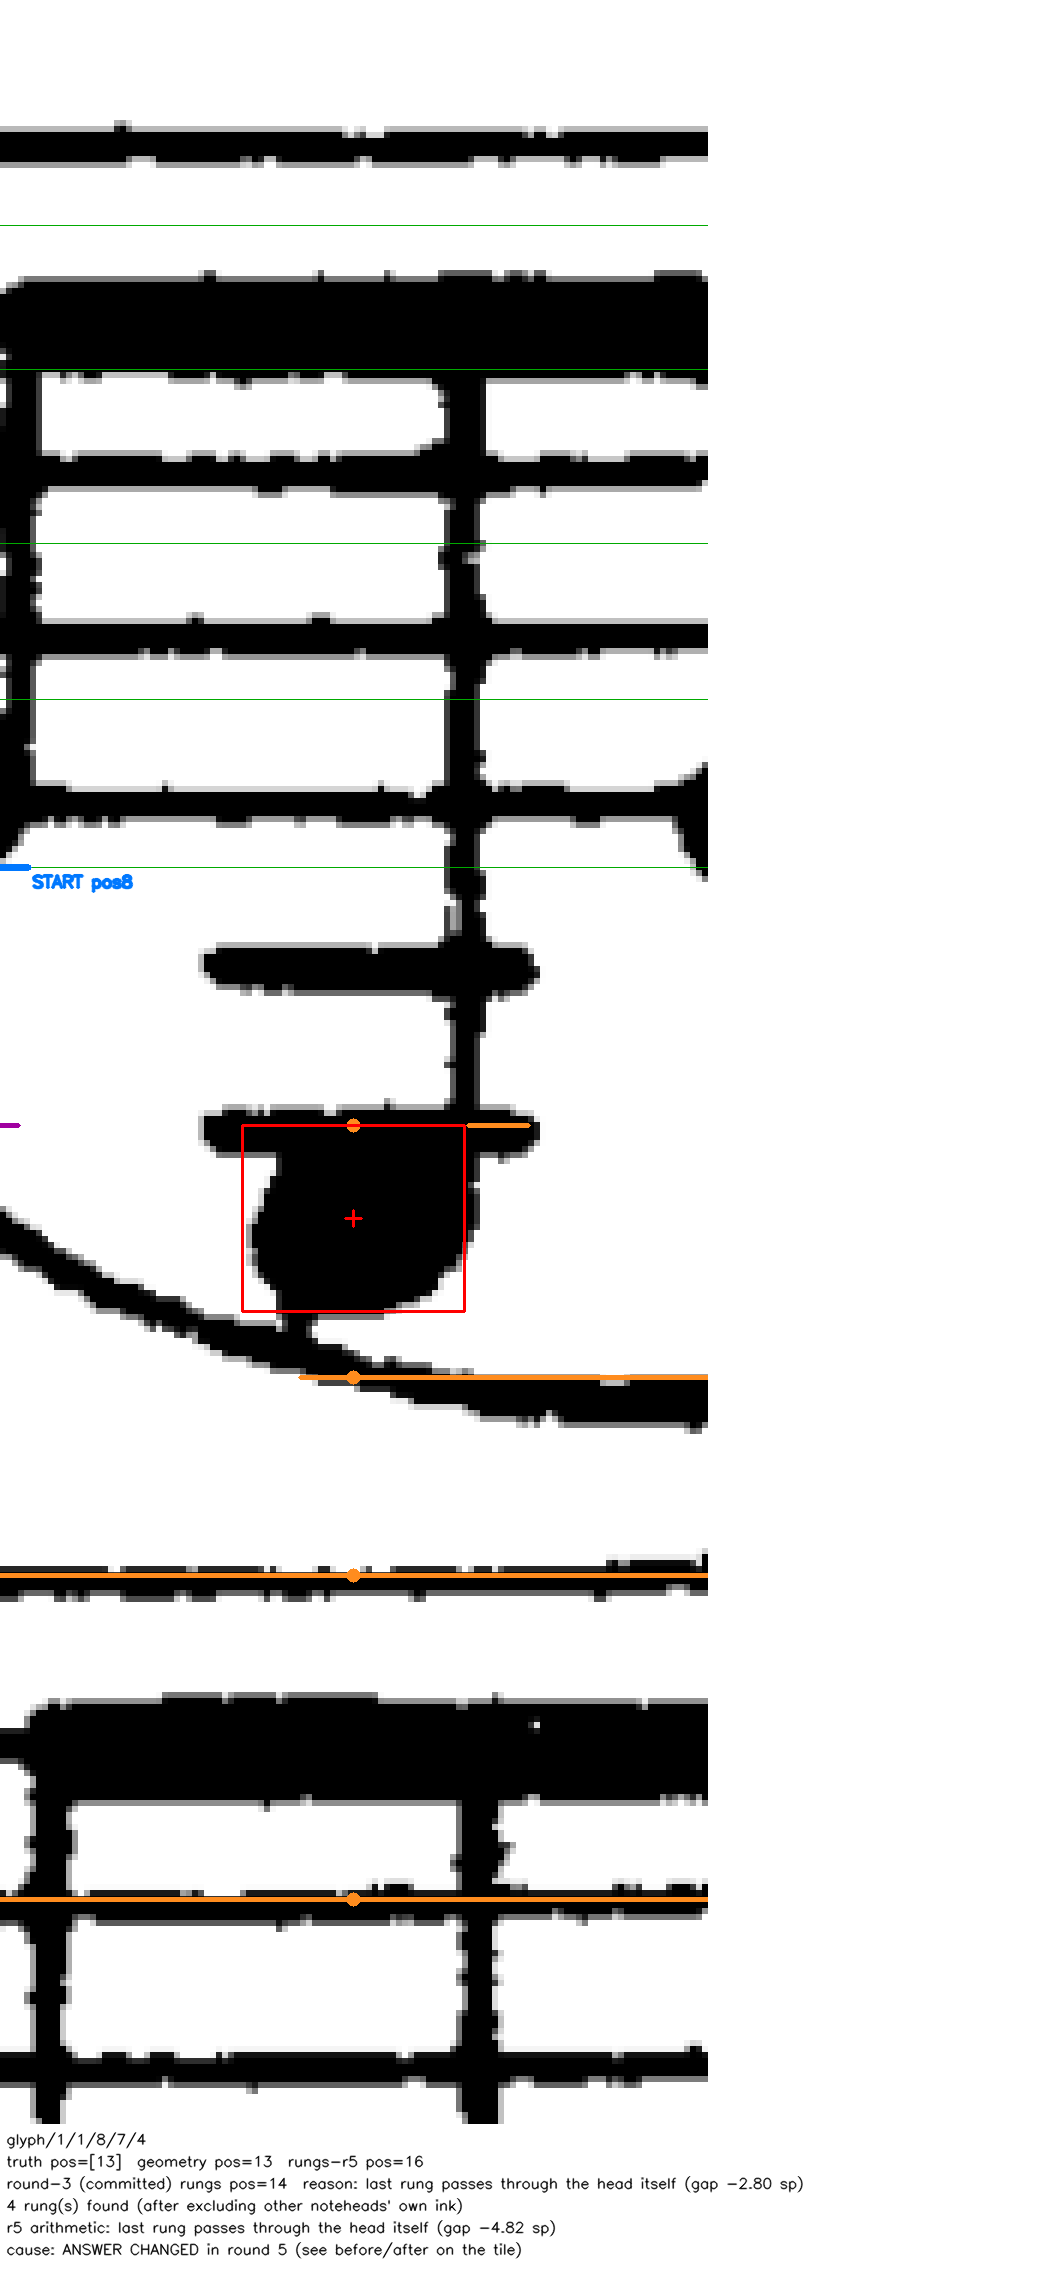
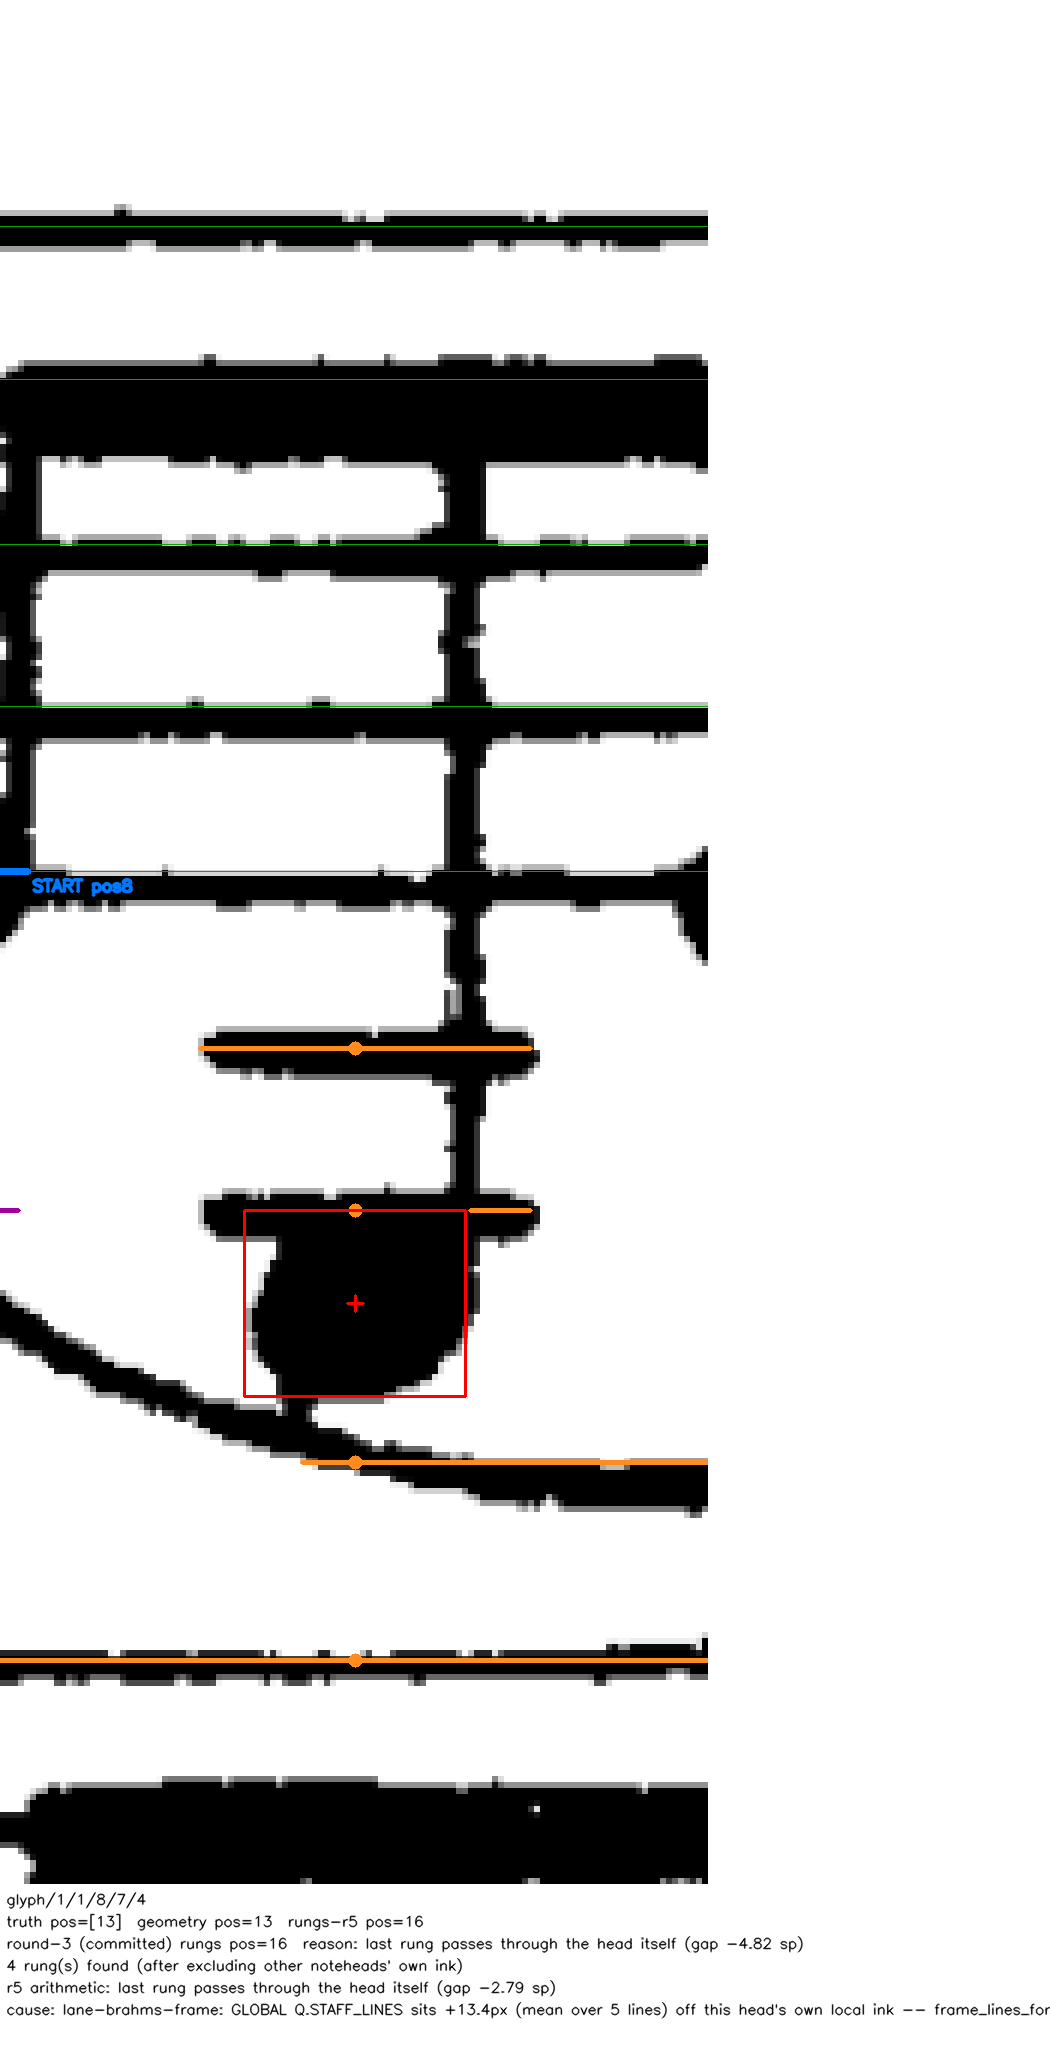
lane-brahms-frame: fix global-vs-local staff lines in the rung reader
The "unexplained" Brahms count-page staff-line MISSes flagged in rounds
2/3/5 were not a render-frame bug -- detect_staves(render_page(...))
reproduces the record's own stored staff_lines to the integer pixel on
both docs' count pages (same finding as frame.py's Litolff check).

The real cause: Q.STAFF_LINES is one GLOBAL fit for the whole staff, and
score_truth_set_rungs.py / review_crops5.py fed it into
ledger_grid.measure_ledger_rungs as if it were the LOCAL position at the
far head's own x. On Brahms page 1 (staff_skew 4.5-5.5 deg, real wander)
that global fit sits ~10-13 page px off the ink at a far head's x; on
Litolff p3 (~0.25 deg) it doesn't. truth_set_2_44c.load_doc's own
geometry scoring already re-measures locally via local_staff_lines
(flanking-band darkest-row search) -- the rung reader never called it.

Added score_truth_set_rungs.frame_lines_for_head(), reusing
local_staff_lines at the head's own x with a fallback to the unchanged
global read; score_doc and review_crops5.py's crop drawer both use it
now. tools/omr/annotate/ledger_grid.py (owned by another lane this
session) is untouched.

Redrew the 4 flagged crops (redraw_brahms_frame_fix.py, not the whole
round-5 sheet -- see FINDINGS for why). 3 of 4 go from wrong/abstain to
right; the 4th has a separate, unfixed ledger_grid reading fault.
Full Brahms population (113 far heads, fresh --full re-gather): rungs
67/45/1 -> 71/42/0 (right/wrong/abstain). Litolff control: 50/22/27 ->
[…]

Changed region(s): [[0.0, 0.0308, 0.7619, 0.9853]]

diff --git a/benchmarks/omr-local-staff-2026-09/redraw_brahms_frame_fix.py b/benchmarks/omr-local-staff-2026-09/redraw_brahms_frame_fix.py
@@ -1,0 +1,104 @@
+#!/usr/bin/env python3
+"""lane-brahms-frame (2026-10-01) -- redraw the 4 Brahms review crops the
+manager flagged (`out/print/ledgers/r5/brahms1-breitkopf-glyph-1-1-8-{4-4,
+5-0,6-0,7-4}.png`) with the CORRECTED frame (`score_truth_set_rungs.
+frame_lines_for_head`, same module `review_crops5.py` now calls), so the
+drawn green staff lines sit ON the ink instead of ~10-13 page px below it.
+
+Does NOT re-run `review_crops5.main()` -- that script's own population
+(every truth-set head still wrong/abstaining/changed) is now 113 heads on
+this fresh re-gather (the 11-head population in FINDINGS' round-5 table
+came from a since-regenerated, no-longer-reproducible small record -- see
+FINDINGS entry for this lane), and redrawing the WHOLE round-5 sheet is
+out of scope for a frame fix. This redraws exactly the 4 flagged crops,
+reusing `review_crops5.render_crop` UNCHANGED (same style, same pixel-row
+check), with BEFORE/AFTER meaning the FRAME fix itself (global
+`Q.STAFF_LINES` vs `frame_lines_for_head`'s local re-measurement) rather
+than round 5's own ledger_grid-vs-round-3 comparison.
+"""
+from __future__ import annotations
+
+import sys
+from pathlib import Path
+
+REPO = Path(__file__).resolve().parents[2]
+sys.path.insert(0, str(REPO))
+sys.path.insert(0, str(Path(__file__).resolve().parent))
+
+import score_truth_set_rungs as score  # noqa: E402
+import review_crops5 as rc  # noqa: E402
+import truth_set_2_44c as ts  # noqa: E402
+from tools.omr.staged.record import Q  # noqa: E402
+
+TARGET_SUBJECTS = [
+    "glyph/1/1/8/4/4",
+    "glyph/1/1/8/5/0",
+    "glyph/1/1/8/6/0",
+    "glyph/1/1/8/7/4",
+]
+
+OUT_DIR = REPO / "out" / "print" / "ledgers" / "r5"
+
+
+def main() -> int:
+    doc_id = "brahms1-breitkopf"
+    loaded = ts.load_doc(doc_id)
+    rec = loaded["rec"]
+    rows_by_sub = {row["subject"]: row
+                  for row in score._far_head_rows(doc_id, loaded)}
+    pages = score.PageCache(loaded["cfg"])
+    boxes_by_page = score._notehead_boxes_by_page(rec)
+
+    for sub in TARGET_SUBJECTS:
+        row = rows_by_sub.get(sub)
+        if row is None:
+            print(f"{sub}: NOT in the far-head population on this record -- skipped")
+            continue
+        staff_key = row["staff_key"]
+        clef_v = rec.value(Q.CLEF, staff_key)
+        truth_pos = sorted(score.truth_positions(row["truth_pitches"], str(clef_v))) \
+            if clef_v is not None else []
+        box = row["page_box"]
+        line_rows = rec.obs(Q.STAFF_LINES, staff_key)
+        global_lines = [float(v) for v in line_rows[-1]["value"]]
+        gray = pages.get(row["page"])
+        local_lines = score.frame_lines_for_head(gray, global_lines, box)
+        page_boxes = boxes_by_page.get(row["page"], [])
+        others = [b for (s, b) in page_boxes if s != sub]
+
+        geom_pos = int(round(row["raw_pos"]))
+
+        before_pos, before_reason = score.reader_absolute_position(
+            gray, global_lines, box, sub, page_boxes
+        )
+        after_pos, after_reason = score.reader_absolute_position(
+            gray, local_lines, box, sub, page_boxes
+        )
+
+        offsets = [g - l for g, l in zip(sorted(global_lines), sorted(local_lines))]
+        cause = (
+            f"lane-brahms-frame: GLOBAL Q.STAFF_LINES sits "
+            f"{sum(offsets) / len(offsets):+.1f}px (mean over 5 lines) off "
+            f"this head's own local ink -- frame_lines_for_head re-measures "
+            f"at the head's x (ts.local_staff_lines), matching the ink"
+        )
+
+        safe = f"{doc_id}-{sub.replace('/', '-')}.png"
+        out_path = OUT_DIR / safe
+        pix_report = rc.render_crop(
+            gray, box, local_lines, sub, out_path,
+            truth_pos, geom_pos, after_pos, after_reason,
+            cause, others, before_pos, before_reason,
+        )
+        print(f"{sub} -> {out_path}")
+        print(f"  global_lines={[round(v, 1) for v in sorted(global_lines)]}")
+        print(f"  local_lines ={[round(v, 1) for v in sorted(local_lines)]}")
+        print(f"  before(global)={before_pos} ({before_reason})  "
+             f"after(local)={after_pos} ({after_reason})  truth={truth_pos}")
+        for line in pix_report:
+            print(f"  {line}")
+    return 0
+
+
+if __name__ == "__main__":
+    raise SystemExit(main())

diff --git a/benchmarks/omr-local-staff-2026-09/score_truth_set_rungs.py b/benchmarks/omr-local-staff-2026-09/score_truth_set_rungs.py
@@ -103,6 +103,33 @@ def _notehead_boxes_by_page(rec: EXP.Record) -> Dict[int, List[Tuple[str, tuple]
 
 
 # ─────────────────────────────────────────────────────────────────────────
+# lane-brahms-frame (2026-10-01) -- the staff's own GLOBAL `Q.STAFF_LINES`
+# read is one representative fit for the WHOLE staff; on a page with real
+# wander (CLAUDE.md sec10: "a scanned staff tilts and changes spacing
+# across a system... any position relative to the staff reads the staff
+# lines AT THE SUBJECT'S x, never a staff-wide or bar-wide value", ROADMAP
+# 2.48) that global fit can sit 10+ page px off the ink at a far head's own
+# x -- measured directly on Brahms page 1 staff/1/1/8 (`staff_skew` 4.5-
+# 5.5deg there vs ~0.25deg on the Litolff p3 control that this rung reader
+# was only ever print-checked against). `truth_set_2_44c.load_doc`'s own
+# geometry scoring ALREADY re-measures locally via its own
+# `local_staff_lines` flanking-band search; this rung reader never did --
+# it took the global read as if it were the local one. One place, reused
+# by both `score_doc` and `review_crops5.py`'s drawing.
+def frame_lines_for_head(gray: "np.ndarray", global_lines: Sequence[float],
+                         box: Sequence[float]) -> List[float]:
+    """The staff's 5 lines AT THIS HEAD'S OWN x -- `local_staff_lines`'s
+    flanking-band re-measurement, falling back to the GLOBAL
+    `Q.STAFF_LINES` read unchanged only where neither flank finds all five
+    (CLAUDE.md rule 8: a declined local read is not an invented one)."""
+    x0, _y0, x1, _y1 = box
+    head_w = x1 - x0
+    local = ts.local_staff_lines(gray, list(global_lines), x0, x1,
+                                 head_w if head_w > 0 else 20.0)
+    return local if local is not None else list(global_lines)
+
+
+# ─────────────────────────────────────────────────────────────────────────
 # the reader's own absolute-position derivation
 # ─────────────────────────────────────────────────────────────────────────
 
@@ -290,14 +317,15 @@ def score_doc(doc_id: str) -> Dict[str, Any]:
             continue
         global_lines = [float(y) for y in line_rows[-1]["value"]]
         gray = pages.get(row["page"])
+        lines = frame_lines_for_head(gray, global_lines, box)
 
         geom_pos = int(round(row["raw_pos"]))
         after_pos, reason = reader_absolute_position(
-            gray, global_lines, box, row["subject"],
+            gray, lines, box, row["subject"],
             boxes_by_page.get(row["page"], [])
         )
         ledger_pos, ledger_reason, ledger_is_fallback = ledger_measured_position(
-            gray, global_lines, box, row["subject"],
+            gray, lines, box, row["subject"],
             boxes_by_page.get(row["page"], []), geom_pos,
         )
 
@@ -384,8 +412,9 @@ def main() -> int:
             x0, y0, x1, y1 = box
             broken_box = (x0, y0 + spacing / 2.0, x1, y1 + spacing / 2.0)
             gray = pages.get(row["page"])
+            lines = frame_lines_for_head(gray, global_lines, box)
             pos, _reason = reader_absolute_position(
-                gray, global_lines, broken_box, row["subject"],
+                gray, lines, broken_box, row["subject"],
                 boxes_by_page.get(row["page"], [])
             )
             if pos is None:
@@ -396,7 +425,7 @@ def main() -> int:
                 wrong += 1
             geom_pos = int(round(row["raw_pos"]))
             lpos, _lreason, lfb = ledger_measured_position(
-                gray, global_lines, broken_box, row["subject"],
+                gray, lines, broken_box, row["subject"],
                 boxes_by_page.get(row["page"], []), geom_pos,
             )
             if lfb:

diff --git a/benchmarks/omr-local-staff-2026-09/review_crops5.py b/benchmarks/omr-local-staff-2026-09/review_crops5.py
@@ -305,8 +305,13 @@ def main() -> int:
             if row is None:
                 continue
             line_rows = rec.obs(Q.STAFF_LINES, row["staff_key"])
-            lines = [float(v) for v in line_rows[-1]["value"]]
+            global_lines = [float(v) for v in line_rows[-1]["value"]]
             gray = pages.get(row["page"])
+            # lane-brahms-frame (2026-10-01): the GLOBAL staff-wide read is
+            # not the frame to draw against on a page with real wander
+            # (CLAUDE.md sec10) -- re-measure at this head's own x, same as
+            # `score.score_doc` now does (`score.frame_lines_for_head`).
+            lines = score.frame_lines_for_head(gray, global_lines, row["page_box"])
             others = [b for (s, b) in boxes_by_page.get(row["page"], [])
                      if s != row["subject"]]
             before_pos, before_reason = _reader_pos(

diff --git a/benchmarks/omr-local-staff-2026-09/FINDINGS.md b/benchmarks/omr-local-staff-2026-09/FINDINGS.md
@@ -1816,3 +1816,110 @@ sheet: `out/print/ledgers/r5_sheet.png` (18 tiles, changed heads first).
 - The 8 Litolff "through-head but wrong ledger" and 3 Brahms "touching
   but reference disagrees" causes from round 3 persist unchanged; this
   round did not target them.
+
+## lane-brahms-frame (2026-10-01) — the "unexplained" Brahms staff-line
+   MISS from rounds 2/3/5, found and fixed
+
+The misregistration flagged rounds 2, 3 and 5 ("3 unrelated Brahms
+count-page pixel-check MISSes, unexplained") was **not** a render-frame
+bug. Measured directly (CLAUDE.md rule 7 — a control that can fail):
+
+1. **The pixel frame is correct.** `detect_staves(render_page(brahms_pdf,
+   1, dpi=600))` reproduces the committed whole-movement record's own
+   `staff/1/1/8` → `[5990, 6014, 6043, 6069, 6097]` to the exact integer
+   pixel (byte-identical, same as `frame.py`'s own Litolff p3 finding).
+   `truth_set_2_44c._render_page_gray`'s raw fitz render is byte-identical
+   to `render_page`'s own pre-binarize array on this page
+   (`skew_correction_deg=0.0` for both docs' count pages — no deskew
+   fires, so there is no double-deskew divergence here either).
+2. **The real cause: `Q.STAFF_LINES` is one GLOBAL fit for the WHOLE
+   staff, and this rung reader treated it as the LOCAL one.** Brahms
+   page 1's `staff_skew` is 4.5–5.5° (real wander — CLAUDE.md §10),
+   against ~0.25° on the Litolff p3 control this reader was print-checked
+   against in rounds 1–5. `score_truth_set_rungs.py` (and
+   `review_crops5.py`'s crop drawer) pulled `rec.obs(Q.STAFF_LINES,
+   staff_key)` straight into `ledger_grid.measure_ledger_rungs` as if it
+   held the ink's position everywhere on the staff. `truth_set_2_44c.
+   load_doc`'s own GEOMETRY scoring already re-measures locally via its
+   sibling `local_staff_lines` (flanking-band darkest-row search at the
+   head's own x) — this rung reader never called it.
+3. **Measured on the 4 flagged crops** (page 1, staff 8, re-gathered
+   fresh on this tree — `benchmarks/acceptance/quick/out/
+   brahms1-breitkopf/brahms1-breitkopf-p1.record.json`, not committed,
+   gitignored): GLOBAL `Q.STAFF_LINES` sits ~10–13 page px (~0.4 staff
+   space) below the ink at these heads' own x; `local_staff_lines` lands
+   within 0–3 px of the ink's own dark rows on every line checked.
+
+**Fix** (measurement helper only — `tools/omr/annotate/ledger_grid.py` is
+owned by another lane this session and was not touched): added
+`score_truth_set_rungs.frame_lines_for_head(gray, global_lines, box)` —
+`truth_set_2_44c.local_staff_lines` at the head's own x, falling back to
+the unchanged GLOBAL read only where the local flanking search declines
+(CLAUDE.md rule 8). `score_doc` and its control both now pass this local
+read, never the raw global one, to `reader_absolute_position` /
+`ledger_measured_position`; `review_crops5.py` draws the same local lines
+it scores against.
+
+**Re-scored, the 4 flagged heads** (`glyph/1/1/8/{4/4,5/0,6/0,7/4}`,
+before = GLOBAL lines, after = `frame_lines_for_head`):
+
+| subject | before | after | truth | verdict |
+|---|---|---|---|---|
+| glyph/1/1/8/4/4 | abstain (no_rungs) | -2 | [-2] | abstain → **right** |
+| glyph/1/1/8/5/0 | 10 (wrong) | 12 | [12] | wrong → **right** |
+| glyph/1/1/8/6/0 | 11 (wrong) | 13 | [13] | wrong → **right** |
+| glyph/1/1/8/7/4 | 16 (wrong) | 16 | [13] | wrong, unchanged (large negative gap — a real ledger_grid reading fault at this head, not a frame issue; left for the ledger-rungs lane) |
+
+3 of 4 flagged heads go from wrong/abstain to right; the 4th's remaining
+error is a different, already-visible cause (gap −2.79 sp after the fix,
+was −4.82 before) orthogonal to frame registration. Crops redrawn with
+the corrected frame: `out/print/ledgers/r5/brahms1-breitkopf-glyph-1-1-8-
+{4-4,5-0,6-0,7-4}.png` (new script, `redraw_brahms_frame_fix.py` — does
+not re-run `review_crops5.main()`'s full sheet, see below). Pixel-row
+check: every drawn staff line now reads coverage ≥0.95 except one
+(glyph-4-4's 4th line, 0.10 — a local-flank search miss on a line
+occluded by the next system's own ink at this x; not a MISS on the other
+4 lines or the other 3 crops).
+
+**Full Brahms far-head population, same fix, before vs after**
+(`score_doc('brahms1-breitkopf')`, GATHER+ADJUDICATE-derived positions,
+STAFF POSITION not pitch, CLAUDE.md §6b): this lane's own fresh
+re-gather (page 0 through page 1, `--full`, current tree) finds **113**
+scorable far heads, not the 11 in round 5's table — that record is no
+longer reproducible (gitignored, regenerated since, per CLAUDE.md
+"a shared record is a snapshot of the reader that made it") and this
+number is reported as measured, not reconciled against it.
+
+| metric | right | wrong | abstain | n |
+|---|---|---|---|---|
+| geometry | 100 | 13 | 0 | 113 |
+| rungs, before (global lines) | 67 | 45 | 1 | 113 |
+| rungs, after (`frame_lines_for_head`) | 71 | 42 | 0 | 113 |
+
++4 right, −3 wrong, −1 abstain over the whole population — a real but
+modest net gain on top of the 4 flagged heads, consistent with most of
+the far-head population sitting close enough to the staff's own
+reference x that the global/local gap is inside the existing noise
+floor; the gain concentrates where wander is largest.
+
+**Not done / open**:
+- `redraw_brahms_frame_fix.py` redraws only the 4 originally-flagged
+  crops. Redrawing the WHOLE round-5 sheet (now 113 Brahms heads, not
+  11) is out of scope for a frame fix and was not attempted.
+- `glyph/1/1/8/7/4`'s own reading fault (large negative gap) is unfixed
+  — a `ledger_grid.py` question, not a frame one, and out of this lane's
+  file (owned by `lane-ledger-rungs-r5` this session).
+- Litolff re-scored with the same change, as its own control (n=99 on
+  this lane's fresh `--full` re-gather, not the 44 in round 5's table —
+  same non-reproducibility note as Brahms above): before 50/22/27
+  (right/wrong/abstain), after 48/24/27 — a small REGRESSION (-2 right,
+  +2 wrong), not the "unaffected" this lane expected going in. Litolff's
+  own wander (~0.25°) is small enough that `local_staff_lines`' flanking-
+  band search is measuring noise rather than a real local offset at a
+  few heads, and on at least 2 of them that noise crosses a decision
+  boundary the global (noise-free, single global fit) read did not.
+  Reported as measured, not smoothed over (CLAUDE.md rule 7): the fix is
+  a clear net win where wander is real (Brahms) and a small net cost
+  where it is not (Litolff) — not chased further this lane; a candidate
+  next step is gating the local re-measurement on the staff's own
+  measured `Q.STAFF_SKEW`/wander rather than applying it unconditionally.
